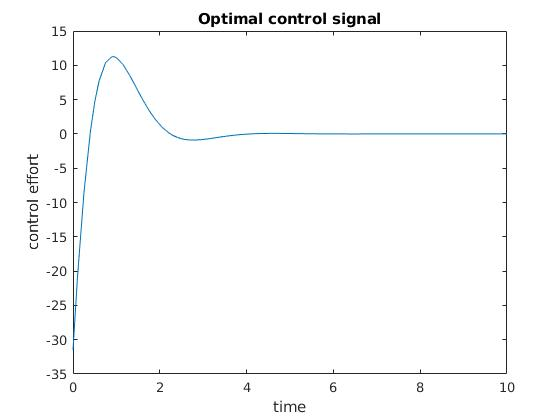
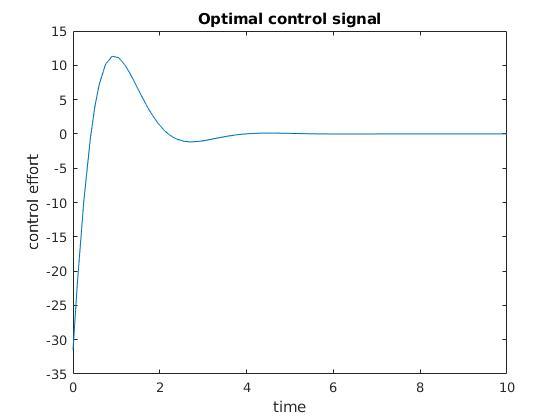
fixed values of Q and P1 matrices, replotted

diff --git a/Control/HW/Code/problem2/p2.m b/Control/HW/Code/problem2/p2.m
@@ -12,9 +12,9 @@ global T N t;
 A = [0 1; -1.6 -0.4];
 B = [0;1];
 
-Q = [2 0; 0 0.1];
+Q = [2 0; 0 0.01];
 R = 0.1;
-P1 = [1 0; 0 0.1];
+P1 = [1 0; 0 0.01];
 
 T = 10;
 N = 101;
